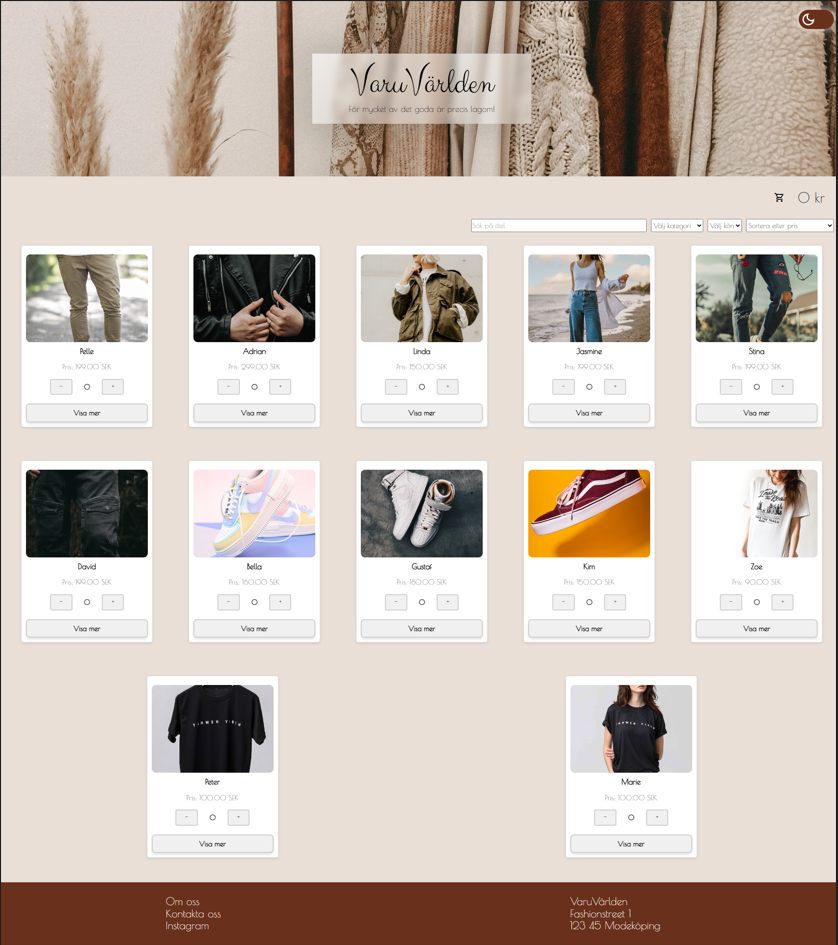
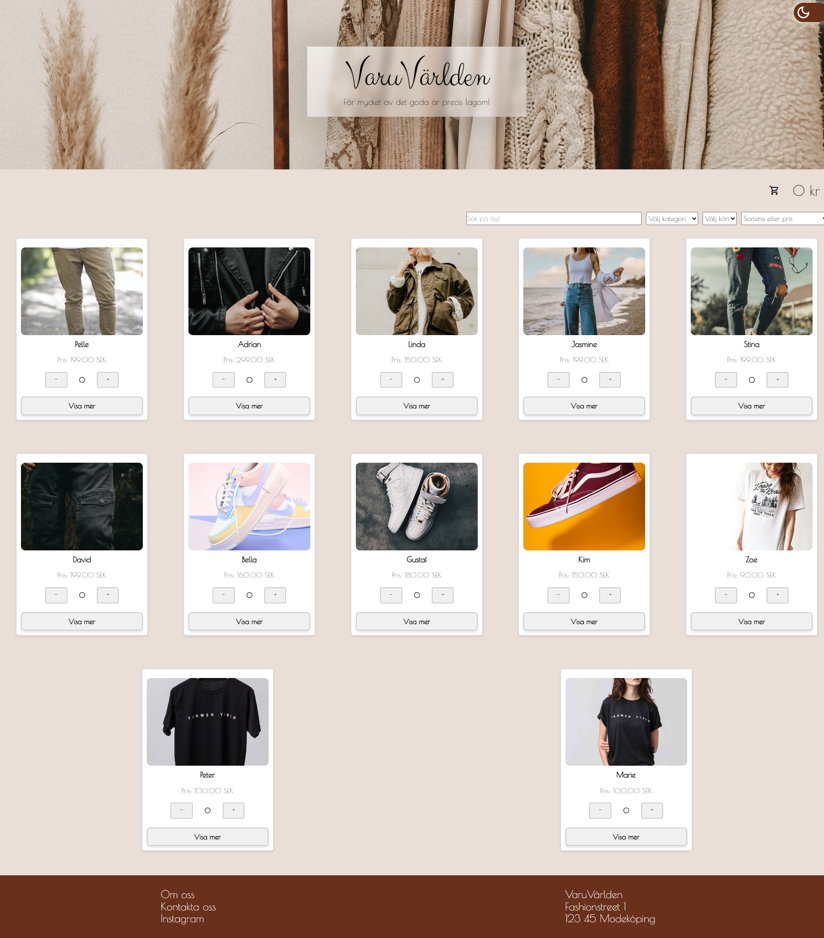
Design fix

diff --git a/css/main.css b/css/main.css
@@ -1,1 +1,1 @@
-/*! normalize.css v8.0.1 | MIT License | github.com/necolas/normalize.css */html{line-height:1.15;-webkit-text-size-adjust:100%}body{margin:0}main{display:block}h1{font-size:2em;margin:.67em 0}hr{box-sizing:content-box;height:0;overflow:visible}pre{font-family:monospace,monospace;font-size:1em}a{background-color:rgba(0,0,0,0)}abbr[title]{border-bottom:none;text-decoration:underline;text-decoration:underline dotted}b,strong{font-weight:bolder}code,kbd,samp{font-family:monospace,monospace;font-size:1em}small{font-size:80%}sub,sup{font-size:75%;line-height:0;position:relative;vertical-align:baseline}sub{bottom:-0.25em}sup{top:-0.5em}img{border-style:none}button,input,optgroup,select,textarea{font-family:inherit;font-size:100%;line-height:1.15;margin:0}button,input{overflow:visible}button,select{text-transform:none}button,[type=button],[type=reset],[type=submit]{-webkit-appearance:button}button::-moz-focus-inner,[type=button]::-moz-focus-inner,[type=reset]::-moz-focus-inner,[type=submit]::-moz-focus-inner{border-style:none;padding:0}button:-moz-focusring,[type=button]:-moz-focusring,[type=reset]:-moz-focusring,[type=submit]:-moz-focusring{outline:1px dotted ButtonText}fieldset{padding:.35em .75em .625em}legend{box-sizing:border-box;color:inherit;display:table;max-width:100%;padding:0;white-space:normal}progress{vertical-align:baseline}textarea{overflow:auto}[type=checkbox],[type=radio]{box-sizing:border-box;padding:0}[type=number]::-webkit-inner-spin-button,[type=number]::-webkit-outer-spin-button{height:auto}[type=search]{-webkit-appearance:textfield;outline-offset:-2px}[type=search]::-webkit-search-decoration{-webkit-appearance:none}::-webkit-file-upload-button{-webkit-appearance:button;font:inherit}details{display:block}summary{display:list-item}template{display:none}[hidden]{display:none}html,body{max-width:100%;overflow-x:hidden;font-family:"El Messiri",sans-serif;display:flex;flex-direction:column;min-height:100vh;margin:0;transition:background-color .5s,color .5s}body.light-mode header,body.light-mode .nav-links.active{background:#f4f4f4;color:#000}body.light-mode aside{background-color:#f4f4f4;color:#000}body.light-mode main{background-color:#e0e0e0;color:#000}body.light-mode h1,body.light-mode h2,body.light-mode h3{background:linear-gradient(90deg, #B35229, #feb47b);-webkit-background-clip:text;-webkit-text-fill-color:rgba(0,0,0,0)}body.light-mode .nav-links a{color:#d27b4b}body.dark-mode header,body.dark-mode .nav-links.active{background:#333;color:#fff}body.dark-mode aside{background-color:#333;color:#fff}body.dark-mode main{background:#333;color:#fff}body.dark-mode h1,body.dark-mode h2,body.dark-mode h3,body.dark-mode .nav-links a{background:linear-gradient(90deg, #ff7e5f, #feb47b);-webkit-background-clip:text;-webkit-text-fill-color:rgba(0,0,0,0)}body.dark-mode .nav-links a{color:#ff956b}body.dark-mode footer{background:#333;color:#fff}body.light-mode a img{filter:invert(0%) sepia(100%) hue-rotate(180deg)}body.dark-mode a img{filter:invert(100%)}.theme-switch-wrapper{position:absolute;top:15px;right:20px;z-index:1000}.theme-switch{position:relative;display:inline-block;width:80px;height:44px}.theme-switch input{opacity:0;width:0;height:0}.slider{position:absolute;cursor:pointer;top:0;left:0;right:0;bottom:0;background-color:gray;transition:.4s;border-radius:44px;width:80px;height:44px}.slider:hover{box-shadow:0 0 20px gray}.slider:before{position:absolute;content:"";height:36px;width:36px;left:4px;bottom:4px;background-image:url("../images/dark_mode.svg") !important;transition:.4s;border-radius:50%;background-size:cover}input:checked+.slider{background-color:gray}input:checked+.slider:hover{box-shadow:0 0 20px #fff}input:checked+.slider:before{transform:translateX(36px);background-image:url("../images/light_mode.svg") !important;background-size:cover}body.light-mode .tooltip{background-color:rgba(0,0,0,.8);color:#fff}body.dark-mode .tooltip{background-color:rgba(255,255,255,.9);color:#000;border:1px solid rgba(0,0,0,.2)}header{display:flex;flex-direction:column;align-items:center;width:100%;position:relative;border-bottom:10px double #fff;height:75px}.navbar{display:flex;justify-content:space-between;align-items:center;padding:10px 10px;position:relative;width:100%}.nav-links{display:none;flex-direction:column;position:absolute;top:50px;left:0;width:100%;justify-content:flex-start;align-items:center;gap:20px;z-index:999}.nav-links.active{display:flex;flex-direction:column;list-style-type:none;height:100vh;overflow-x:hidden;top:0px;z-index:999;padding-top:80px;padding-left:0;text-transform:uppercase}.hamburger{display:block;font-size:40px;background:none;border:none;color:#d27b4b;cursor:pointer;z-index:1000;padding-left:20px;margin-top:5px;border-radius:5px}.hamburger.active{transform:rotate(90deg)}.nav-links a{text-decoration:none;font-weight:bold;transition:color .2s ease-in-out;font-size:1.5rem}aside{background-color:#f4f4f4;padding:10px;border-right:4px solid #fff;border-left:4px solid #fff;border-bottom:10px double #fff}.profilepicture{width:50%;max-width:200px;border-radius:50%;display:block;margin:20px auto;border:4px solid #ddd}aside h1{margin-top:60px;margin-bottom:10px;font-size:2.5em;text-align:center}.title{margin-top:0;font-size:1.9em}aside h2{text-align:center;margin-top:50px;font-size:1.5em}aside p{text-align:center;margin-top:5px;padding-left:10px;padding-right:10px;font-size:1.2em}.contact{margin-bottom:40px}.contact p{margin-bottom:20px}.contact-icons-aside{display:flex;flex-direction:row;justify-content:center;align-items:center;padding:10px 0;width:100%;text-align:center;gap:10px;flex-wrap:wrap}.contact-icons-aside a{position:relative;color:#fff;text-decoration:none;font-size:1.5em;display:inline-block;margin:5px}.contact-icons-aside a:hover{transform:scale(1.2)}.contact-icons-aside img{width:30px;height:30px;margin:0 10px;transition:transform .3s ease,filter .3s ease}.contact-icons-aside .tooltip{position:absolute;bottom:60px;left:50%;transform:translateX(-50%);background-color:rgba(0,0,0,.8);color:#fff;padding:5px 10px;border-radius:5px;font-size:14px;white-space:nowrap;opacity:0;visibility:hidden;transition:opacity .3s ease,transform .3s ease}.contact-icons-aside a:hover .tooltip{opacity:1;visibility:visible;transform:translateX(-50%) translateY(-5px)}main{background-color:#e0e0e0;padding:10px;padding-left:10px;padding-right:10px;box-sizing:border-box;border-right:4px solid #fff;border-left:4px solid #fff;margin-bottom:60px;flex:1}main h2{text-align:center;margin-top:50px;font-size:2.5em}main h3{margin-bottom:0px;margin-top:40px;font-size:1.5em;text-align:center}main h4{margin-bottom:-10px;font-size:1.2em;word-wrap:break-word;overflow-wrap:break-word;word-break:break-word;hyphens:auto}main p{margin-top:10px;font-size:1.2em;word-wrap:break-word;overflow-wrap:break-word;word-break:break-word;hyphens:auto}.material-symbols-outlined{display:inline-block;vertical-align:middle}.projects-grid{display:grid;grid-template-columns:repeat(auto-fit, minmax(280px, 1fr));gap:2rem;padding:2rem}.project-card{display:flex;flex-direction:column;background:#fff;border-radius:20px;overflow:hidden;box-shadow:0 4px 8px rgba(0,0,0,.1);transition:transform .3s ease;padding:20px 20px}.project-card:hover{transform:translateY(-5px)}.project-card img{width:100%;height:200px;object-fit:cover}.project-content{padding:1rem;text-align:center}.project-content h4{margin:.5rem 0;font-size:1.25rem;color:#222}.project-content p{font-size:1rem;color:#666;margin-bottom:1rem}.button{display:flex;justify-content:space-evenly}.btn{display:inline-block;padding:.75rem 1.5rem;background-color:#d27b4b;color:#fff;border:none;border-radius:12px;text-decoration:none;font-weight:600;font-size:1rem;box-shadow:0 4px 8px rgba(0,0,0,.15);transition:all .3s ease;cursor:pointer}.btn:hover{background-color:#b7673c;color:#fff;transform:translateY(-2px);box-shadow:0 6px 12px rgba(0,0,0,.2)}footer{position:relative;justify-content:space-evenly;align-items:flex-end;padding:0px;background-color:#f4f4f4;color:#fff;position:fixed;bottom:0;width:100vw;border-top:10px double #fff;height:50px;display:block;text-align:center;padding-top:10px}footer a{position:relative;color:#fff;text-decoration:none;font-size:1.5em;display:inline-block;margin:5px}footer a:hover{transform:scale(1.2)}footer img{width:30px;height:30px;margin:0 10px;transition:transform .3s ease,filter .3s ease}.icon-wrapper{position:relative;display:inline-block}.tooltip{position:absolute;bottom:60px;left:50%;transform:translateX(-50%);background-color:rgba(0,0,0,.8);color:#fff;padding:5px 10px;border-radius:5px;font-size:14px;white-space:nowrap;opacity:0;visibility:hidden;transition:opacity .3s ease,transform .3s ease}footer a:hover .tooltip{opacity:1;visibility:visible;transform:translateX(-50%) translateY(-5px)}@media screen and (min-width: 1024px){body{flex-direction:row}header{position:absolute;z-index:1000}.nav-links{display:flex;flex-direction:row;justify-content:space-evenly;padding:0;margin:0;top:20px;list-style:none;text-transform:uppercase}.nav-links a{font-size:1.5rem}.hamburger{display:none}nav ul{font-size:2em}[id]::before{content:"";display:block;height:90px;visibility:hidden}aside{width:35%;border-right:10px double #fff;box-sizing:border-box;margin-top:80px;margin-bottom:60px}.profilepicture{margin-top:50px}aside h2{font-size:1.5rem}aside p{padding-left:20px;padding-right:20px;font-size:1.2em}main{width:400px;border-top:4px solid #fff;margin-bottom:70px;border-left:0px;padding-left:40px;padding-right:40px;margin-top:0}main h2{margin-top:50px;font-size:2.5em}main h3{font-size:2em}main h4{font-size:1.2em;hyphens:none}main p{font-size:1.2em;hyphens:none}.projects{top:0}.projects-grid{display:flex;flex-wrap:wrap;justify-content:center;gap:5rem}.project-card{width:450px}.project-card img{height:250px}footer{align-items:flex-end;height:50px}footer img{margin-left:40px;margin-right:40px}}/*# sourceMappingURL=main.css.map */
+/*! normalize.css v8.0.1 | MIT License | github.com/necolas/normalize.css */html{line-height:1.15;-webkit-text-size-adjust:100%}body{margin:0}main{display:block}h1{font-size:2em;margin:.67em 0}hr{box-sizing:content-box;height:0;overflow:visible}pre{font-family:monospace,monospace;font-size:1em}a{background-color:rgba(0,0,0,0)}abbr[title]{border-bottom:none;text-decoration:underline;text-decoration:underline dotted}b,strong{font-weight:bolder}code,kbd,samp{font-family:monospace,monospace;font-size:1em}small{font-size:80%}sub,sup{font-size:75%;line-height:0;position:relative;vertical-align:baseline}sub{bottom:-0.25em}sup{top:-0.5em}img{border-style:none}button,input,optgroup,select,textarea{font-family:inherit;font-size:100%;line-height:1.15;margin:0}button,input{overflow:visible}button,select{text-transform:none}button,[type=button],[type=reset],[type=submit]{-webkit-appearance:button}button::-moz-focus-inner,[type=button]::-moz-focus-inner,[type=reset]::-moz-focus-inner,[type=submit]::-moz-focus-inner{border-style:none;padding:0}button:-moz-focusring,[type=button]:-moz-focusring,[type=reset]:-moz-focusring,[type=submit]:-moz-focusring{outline:1px dotted ButtonText}fieldset{padding:.35em .75em .625em}legend{box-sizing:border-box;color:inherit;display:table;max-width:100%;padding:0;white-space:normal}progress{vertical-align:baseline}textarea{overflow:auto}[type=checkbox],[type=radio]{box-sizing:border-box;padding:0}[type=number]::-webkit-inner-spin-button,[type=number]::-webkit-outer-spin-button{height:auto}[type=search]{-webkit-appearance:textfield;outline-offset:-2px}[type=search]::-webkit-search-decoration{-webkit-appearance:none}::-webkit-file-upload-button{-webkit-appearance:button;font:inherit}details{display:block}summary{display:list-item}template{display:none}[hidden]{display:none}html,body{max-width:100%;overflow-x:hidden;font-family:"El Messiri",sans-serif;display:flex;flex-direction:column;min-height:100vh;margin:0;transition:background-color .5s,color .5s}body.light-mode header,body.light-mode .nav-links.active{background:#f4f4f4;color:#000}body.light-mode aside{background-color:#f4f4f4;color:#000}body.light-mode main{background-color:#e0e0e0;color:#000}body.light-mode h1,body.light-mode h2,body.light-mode h3{background:linear-gradient(90deg, #B35229, #feb47b);-webkit-background-clip:text;-webkit-text-fill-color:rgba(0,0,0,0)}body.light-mode .nav-links a{color:#d27b4b}body.light-mode .project-card{background:#fff}body.light-mode a img{filter:invert(0%) sepia(100%) hue-rotate(180deg)}body.dark-mode header,body.dark-mode .nav-links.active{background:#333;color:#fff}body.dark-mode aside{background-color:#333;color:#fff}body.dark-mode main{background:#333;color:#fff}body.dark-mode h1,body.dark-mode h2,body.dark-mode h3,body.dark-mode .nav-links a{background:linear-gradient(90deg, #ff7e5f, #feb47b);-webkit-background-clip:text;-webkit-text-fill-color:rgba(0,0,0,0)}body.dark-mode .nav-links a{color:#ff956b}body.dark-mode footer{background:#333;color:#fff}body.dark-mode .project-card{background:#f4f4f4}body.dark-mode a img{filter:invert(100%)}.theme-switch-wrapper{position:absolute;top:15px;right:20px;z-index:1000}.theme-switch{position:relative;display:inline-block;width:80px;height:44px}.theme-switch input{opacity:0;width:0;height:0}.slider{position:absolute;cursor:pointer;top:0;left:0;right:0;bottom:0;background-color:gray;transition:.4s;border-radius:44px;width:80px;height:44px}.slider:hover{box-shadow:0 0 20px gray}.slider:before{position:absolute;content:"";height:36px;width:36px;left:4px;bottom:4px;background-image:url("../images/dark_mode.svg") !important;transition:.4s;border-radius:50%;background-size:cover}input:checked+.slider{background-color:gray}input:checked+.slider:hover{box-shadow:0 0 20px #fff}input:checked+.slider:before{transform:translateX(36px);background-image:url("../images/light_mode.svg") !important;background-size:cover}body.light-mode .tooltip{background-color:rgba(0,0,0,.8);color:#fff}body.dark-mode .tooltip{background-color:rgba(255,255,255,.9);color:#000;border:1px solid rgba(0,0,0,.2)}header{display:flex;flex-direction:column;align-items:center;width:100%;position:relative;border-bottom:10px double #fff;height:75px}.navbar{display:flex;justify-content:space-between;align-items:center;padding:10px 10px;position:relative;width:100%}.nav-links{display:none;flex-direction:column;position:absolute;top:50px;left:0;width:100%;justify-content:flex-start;align-items:center;gap:20px;z-index:999}.nav-links.active{display:flex;flex-direction:column;list-style-type:none;height:100vh;overflow-x:hidden;top:0px;z-index:999;padding-top:80px;padding-left:0;text-transform:uppercase}.hamburger{display:block;font-size:40px;background:none;border:none;color:#d27b4b;cursor:pointer;z-index:1000;padding-left:20px;margin-top:5px;border-radius:5px}.hamburger.active{transform:rotate(90deg)}.nav-links a{text-decoration:none;font-weight:bold;transition:color .2s ease-in-out;font-size:1.5rem}aside{background-color:#f4f4f4;padding:10px;border-right:4px solid #fff;border-left:4px solid #fff;border-bottom:10px double #fff}.profilepicture{width:50%;max-width:200px;border-radius:50%;display:block;margin:20px auto;border:4px solid #ddd}aside h1{margin-top:60px;margin-bottom:10px;font-size:2.5em;text-align:center}.title{margin-top:0;font-size:1.9em}aside h2{text-align:center;margin-top:50px;font-size:1.5em}aside p{text-align:center;margin-top:5px;padding-left:10px;padding-right:10px;font-size:1.2em}.contact{margin-bottom:40px}.contact p{margin-bottom:20px}.contact-icons-aside{display:flex;flex-direction:row;justify-content:center;align-items:center;padding:10px 0;width:100%;text-align:center;gap:10px;flex-wrap:wrap}.contact-icons-aside a{position:relative;color:#fff;text-decoration:none;font-size:1.5em;display:inline-block;margin:5px}.contact-icons-aside a:hover{transform:scale(1.2)}.contact-icons-aside img{width:30px;height:30px;margin:0 10px;transition:transform .3s ease,filter .3s ease}.contact-icons-aside .tooltip{position:absolute;bottom:60px;left:50%;transform:translateX(-50%);background-color:rgba(0,0,0,.8);color:#fff;padding:5px 10px;border-radius:5px;font-size:14px;white-space:nowrap;opacity:0;visibility:hidden;transition:opacity .3s ease,transform .3s ease}.contact-icons-aside a:hover .tooltip{opacity:1;visibility:visible;transform:translateX(-50%) translateY(-5px)}main{background-color:#e0e0e0;padding:10px;padding-left:10px;padding-right:10px;box-sizing:border-box;border-right:4px solid #fff;border-left:4px solid #fff;margin-bottom:60px;flex:1}main h2{text-align:center;margin-top:50px;font-size:2.5em}main h3{margin-bottom:0px;margin-top:40px;font-size:1.5em;text-align:center}main h4{margin-bottom:-10px;font-size:1.2em;word-wrap:break-word;overflow-wrap:break-word;word-break:break-word;hyphens:auto}main p{margin-top:10px;font-size:1.2em;word-wrap:break-word;overflow-wrap:break-word;word-break:break-word;hyphens:auto}.material-symbols-outlined{display:inline-block;vertical-align:middle}.projects-grid{display:flex;flex-wrap:wrap;justify-content:center;gap:2rem;padding:2rem;overflow:visible !important}.project-card{width:280px;display:flex;flex-direction:column;border-radius:20px;box-shadow:0 4px 8px rgba(0,0,0,.1);transition:transform .3s ease;height:auto;position:relative;z-index:2}.project-card:hover{transform:scale(1.05) rotate(1deg);box-shadow:0 8px 20px rgba(0,0,0,.2)}.project-card img{width:100%;height:200px;object-fit:cover;object-position:top;border-top-left-radius:20px;border-top-right-radius:20px}.project-content{display:flex;flex-direction:column;flex-grow:1;padding:1.5rem;text-align:center}.project-content h4{margin:.5rem 0;font-size:1.25rem;color:#222}.project-content p{font-size:1rem;color:#666;margin-bottom:1rem}.button{display:flex;justify-content:space-evenly;gap:20px;margin-top:auto}.btn{display:inline-block;padding:.75rem 1.5rem;background-color:#d27b4b;color:#fff;border:none;border-radius:12px;text-decoration:none;font-weight:600;font-size:1rem;box-shadow:0 4px 8px rgba(0,0,0,.15);transition:all .3s ease;cursor:pointer;height:35px;align-content:center}.btn:hover{background-color:#b7673c;color:#fff;transform:translateY(-2px);box-shadow:0 6px 12px rgba(0,0,0,.2)}footer{position:relative;justify-content:space-evenly;align-items:flex-end;padding:0px;background-color:#f4f4f4;color:#fff;position:fixed;bottom:0;width:100vw;border-top:10px double #fff;height:50px;display:block;text-align:center;padding-top:10px;z-index:3}footer a{position:relative;color:#fff;text-decoration:none;font-size:1.5em;display:inline-block;margin:5px}footer a:hover{transform:scale(1.2)}footer img{width:30px;height:30px;margin:0 10px;transition:transform .3s ease,filter .3s ease}.icon-wrapper{position:relative;display:inline-block}.tooltip{position:absolute;bottom:60px;left:50%;transform:translateX(-50%);background-color:rgba(0,0,0,.8);color:#fff;padding:5px 10px;border-radius:5px;font-size:14px;white-space:nowrap;opacity:0;visibility:hidden;transition:opacity .3s ease,transform .3s ease}footer a:hover .tooltip{opacity:1;visibility:visible;transform:translateX(-50%) translateY(-5px)}@media screen and (min-width: 1024px){body{flex-direction:row}header{position:absolute;z-index:1000}.nav-links{display:flex;flex-direction:row;justify-content:space-evenly;padding:0;margin:0;top:20px;list-style:none;text-transform:uppercase}.nav-links a{font-size:1.5rem}.hamburger{display:none}nav ul{font-size:2em}[id]::before{content:"";display:block;height:90px;visibility:hidden}aside{width:35%;border-right:10px double #fff;box-sizing:border-box;margin-top:80px;margin-bottom:60px}.profilepicture{margin-top:50px}aside h2{font-size:1.5rem}aside p{padding-left:20px;padding-right:20px;font-size:1.2em}main{width:400px;border-top:4px solid #fff;margin-bottom:70px;border-left:0px;padding-left:40px;padding-right:40px;margin-top:0}main h2{margin-top:50px;font-size:2.5em}main h3{font-size:2em}main h4{font-size:1.2em;hyphens:none}main p{font-size:1.2em;hyphens:none}.projects{top:0}.projects-grid{display:flex;flex-wrap:wrap;justify-content:center;gap:80px}.project-card{width:450px}.project-card img{height:250px}footer{align-items:flex-end;height:50px}footer img{margin-left:40px;margin-right:40px}}/*# sourceMappingURL=main.css.map */

diff --git a/index.html b/index.html
@@ -111,21 +111,24 @@
         
         <section class="projects-grid">
         <article class="project-card" data-aos="zoom-in">
-            <img src="images/historiska_roster.webp" alt="Historiska Röster" />
+            <img src="images/historiska_roster.png" alt="Historiska Röster" />
             <div class="project-content">
                 <h4>Historiska Röster</h4>
                 <p>HTML · SCSS · JavaScript</p> 
                 <p>Den officiella hemsidan för forskargruppen Historiska Röster. Jag har designat och utvecklat sidan från grunden och ansvarar idag för dess drift och uppdateringar.</p>
-                <a href="https://historiskaroster.se/" target="_blank" class="btn">Besök hemsidan</a>
-            </div>
+                <span class="button">
+                    <a href="https://historiskaroster.se/" target="_blank" class="btn">Besök hemsidan</a>
+                    <a href="https://github.com/angien90/Historiska_Roster" target="_blank" class="btn">Kod & README</a>
+                </span>
+                </div>
         </article> 
 
         <article class="project-card" data-aos="zoom-in">
             <img src="images/API.png" alt="Express Server & API" />
             <div class="project-content">
-                <h4>Express Server</h4>
+                <h4>VaruVärlden</h4>
                 <p>HTML · SCSS · JavaScript · TypeScript · phpMyAdmin</p>
-                <p>Individuellt projekt i kursen API. Backend var i fokus, men jag lade till en enkel frontend för att visualisera funktionaliteten. Mer information finns i README-filen.</p>
+                <p>Individuellt projekt i kursen API. Backend var i fokus och att skapa en Express Server, jag lade till en enkel frontend för att visualisera funktionaliteten även det inte var med som krav.</p>
                 <span class="button">
                     <a href="https://angien90.github.io/Produktkatalog/" target="_blank" class="btn">Resultat</a>
                     <a href="https://github.com/angien90/Produktkatalog" target="_blank" class="btn">Kod & README</a>
@@ -137,11 +140,11 @@
             <img src="images/pilgiftsgrodan.png" alt="Pilgiftsgrodan" />
             <div class="project-content">
                 <h4>Pilgiftsgrodan</h4>
-                <p>HTML · SCSS · JavaScript · Vue</p> 
+                <p>Figma</p> 
                 <p>Detta var ett grupparbete i kursen Grafiska verktyg, där vi ansvarade för att ta fram designen till en webbplats. Vår uppgift var även att dokumentera och kommunicera designen vidare till en annan grupp som skulle implementera den i kod.</p>
                 <span class="button">                    
-                    <a href="https://angien90.github.io/Gottfrids-Gyllene-Munkar/" target="_blank" class="btn">Resultat</a>
-                    <a href="https://github.com/angien90/Gottfrids-Gyllene-Munkar" target="_blank" class="btn">Kod & README</a>
+                    <a href="https://angien90.github.io/Grafiska-verktyg-designframtagning/" target="_blank" class="btn">Resultat</a>
+                    <a href="https://github.com/angien90/Grafiska-verktyg-designframtagning" target="_blank" class="btn">Kod & README</a>
                 </span>
             </div>
         </article>
@@ -150,11 +153,11 @@
             <img src="images/glantan.png" alt="Gläntan" />
             <div class="project-content">
                 <h4>Gläntan</h4>
-                <p>HTML · SCSS · JavaScript</p> 
+                <p>HTML · SCSS · JavaScript · Vue</p> 
                 <p>Detta var en fortsättning på grupparbetet i kursen Grafiska verktyg. I detta moment fick vi ta emot en annan grupps design och ansvarade för att koda upp den enligt deras instruktioner.</p>
                 <span class="button">                    
-                    <a href="https://angien90.github.io/Gottfrids-Gyllene-Munkar/" target="_blank" class="btn">Resultat</a>
-                    <a href="https://github.com/angien90/Gottfrids-Gyllene-Munkar" target="_blank" class="btn">Kod & README</a>
+                    <a href="https://angien90.github.io/Grafiska-verktyg-kodning/#/" target="_blank" class="btn">Resultat</a>
+                    <a href="https://github.com/angien90/Grafiska-verktyg-kodning" target="_blank" class="btn">Kod & README</a>
                 </span>
             </div>
         </article>
@@ -162,7 +165,7 @@
         <article class="project-card" data-aos="zoom-in">
             <img src="images/javascript_musikquiz.png" alt="Musikquiz" />
             <div class="project-content">
-                <h4>Musikquiz</h4>
+                <h4>Jazz Up</h4>
                 <p>HTML · SCSS · JavaScript · TypeScript</p> 
                 <p>Grupparbete i kursen JavaScript. Uppgiften var att skapa ett quiz där användaren gissar låttexter. Vi valde att bygga ett musikquiz med en lekfull design och interaktiva funktioner.</p>
                 <span class="button">  
@@ -175,7 +178,7 @@
         <article class="project-card" data-aos="zoom-in">
             <img src="images/javascript_webbshop.png" alt="Webbshop" />
             <div class="project-content">
-                <h4>Webbshop</h4>
+                <h4>Gottfrids Gyllene Munkar</h4>
                 <p>HTML · SCSS · JavaScript</p> 
                 <p>Mitt första projekt i kursen JavaScript. Uppgiften var att bygga en webbshop – mitt resultat blev en butik som säljer munkar med humoristisk touch.</p>
                 <span class="button">                    
@@ -188,7 +191,7 @@
         <article class="project-card" data-aos="zoom-in">
             <img src="images/vue_todo.png" alt="Vue Todo-app" />
             <div class="project-content">
-                <h4>Todo-app</h4>
+                <h4>Mission Possible</h4>
                 <p>HTML · SCSS · JavaScript · TypeScript · Vue</p> 
                 <p>Detta var vårt första projekt med Vue. Uppgiften var att bygga en applikation för att hantera uppgifter – skapa, visa, uppdatera och ta bort. Fokus låg på struktur, komponenttänk och återanvändbarhet.</p>
                 <span class="button"> 

diff --git a/css/_mobile.scss b/css/_mobile.scss
@@ -38,6 +38,16 @@ html, body {
     color: #d27b4b;
   }
 
+  body.light-mode .project-card {
+     background: white;
+  }
+
+   body.light-mode a img {
+    filter: invert(0%) sepia(100%) hue-rotate(180deg); 
+  }
+  
+
+  /* Dark */
   body.dark-mode header,
   body.dark-mode .nav-links.active {
     background: #333;
@@ -71,9 +81,9 @@ html, body {
     background: #333;
     color: white;
   }
-  
-  body.light-mode a img {
-    filter: invert(0%) sepia(100%) hue-rotate(180deg); 
+
+  body.dark-mode .project-card {
+     background: #f4f4f4;
   }
   
   body.dark-mode a img {
@@ -385,35 +395,45 @@ main p {
 }
 
 .projects-grid {
-  display: grid;
-  grid-template-columns: repeat(auto-fit, minmax(280px, 1fr));
+  display: flex;
+  flex-wrap: wrap;
+  justify-content: center;
   gap: 2rem;
   padding: 2rem;
+  overflow: visible !important;
 }
   
 .project-card {
+  width: 280px; 
   display: flex;
   flex-direction: column;
-  background: white;
   border-radius: 20px;
-  overflow: hidden;
   box-shadow: 0 4px 8px rgba(0,0,0,0.1);
   transition: transform 0.3s ease;
-  padding: 20px 20px;
+  height: auto;
+  position: relative;
+  z-index: 2;
 }
   
   .project-card:hover {
-    transform: translateY(-5px);
-  }
-  
+  transform: scale(1.05) rotate(1deg);
+  box-shadow: 0 8px 20px rgba(0,0,0,0.2);
+}
+
   .project-card img {
     width: 100%;
     height: 200px;
     object-fit: cover;
+    object-position:top;
+    border-top-left-radius: 20px;
+  border-top-right-radius: 20px;
   }
   
   .project-content {
-    padding: 1rem;
+    display: flex;
+    flex-direction: column;
+    flex-grow: 1; 
+    padding: 1.5rem;
     text-align: center;
   }
   
@@ -430,8 +450,10 @@ main p {
   }
 
   .button {
-    display: flex;
+     display: flex;
     justify-content: space-evenly;
+    gap: 20px;
+    margin-top: auto; 
   }
   
   .btn {
@@ -447,14 +469,16 @@ main p {
     box-shadow: 0 4px 8px rgba(0, 0, 0, 0.15);
     transition: all 0.3s ease;
     cursor: pointer;
+    height: 35px;
+    align-content: center;
   }
-  
+
   .btn:hover {
-    background-color: #b7673c;
-    color: #fff;
-    transform: translateY(-2px);
-    box-shadow: 0 6px 12px rgba(0, 0, 0, 0.2);
-  }
+  background-color: #b7673c;
+  color: #fff;
+  transform: translateY(-2px);
+  box-shadow: 0 6px 12px rgba(0, 0, 0, 0.2);
+}
 
 /* Footer */
 footer {
@@ -471,7 +495,8 @@ footer {
   height: 50px;  
   display: block; 
   text-align: center;
-  padding-top: 10px;          
+  padding-top: 10px;    
+  z-index: 3;      
 }
 
 footer a {

diff --git a/css/_tablet.scss b/css/_tablet.scss
@@ -99,7 +99,7 @@ main p {
   display: flex;
   flex-wrap: wrap;
   justify-content: center;
-  gap: 5rem;
+  gap: 80px;
 }
 
 .project-card {
